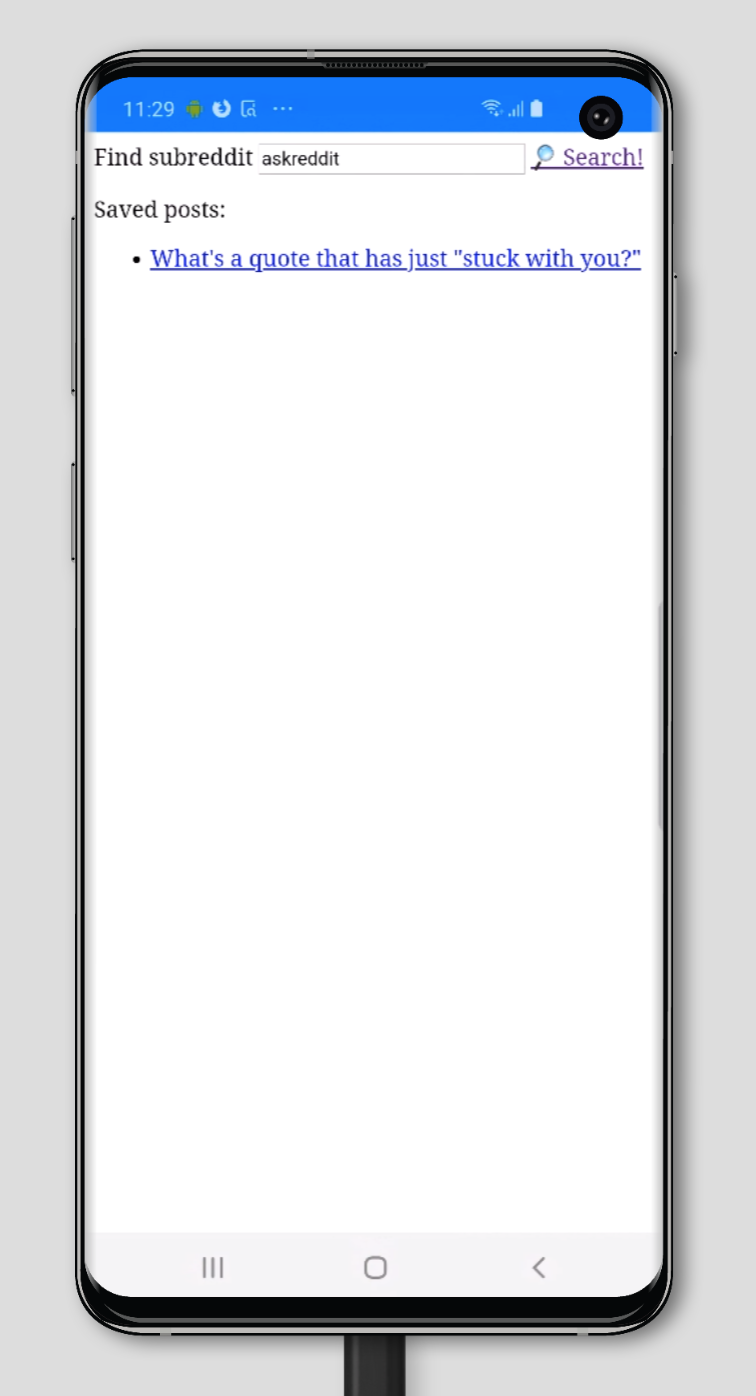
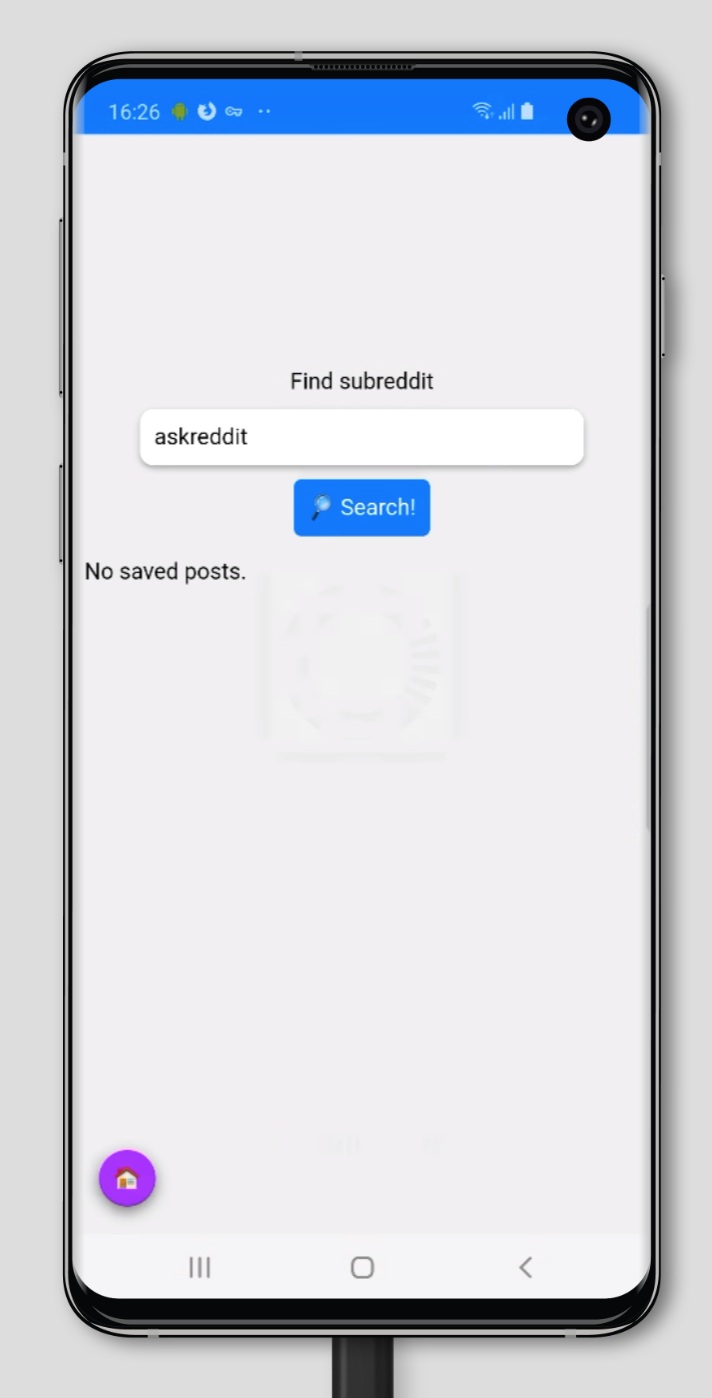
Style headers

diff --git a/src/reddit-pwa-thread.js b/src/reddit-pwa-thread.js
@@ -67,6 +67,9 @@ class RedditPwaThread extends LitElement {
         text-transform: lowercase;
         font-weight: 100;
         margin-bottom: 2em;
+        color: #6b6b6b;
+        text-decoration: underline;
+        text-decoration-color: rgb(0, 119, 255);
       }
 
       button {
@@ -78,6 +81,7 @@ class RedditPwaThread extends LitElement {
         border-radius: 5px;
         border: none;
         font-size: 1em;
+        color: white;
       }
 
       .save {

diff --git a/src/reddit-pwa-subreddit.js b/src/reddit-pwa-subreddit.js
@@ -42,6 +42,9 @@ class RedditPwaSubreddit extends LitElement {
         text-transform: lowercase;
         font-weight: 100;
         margin-bottom: 2em;
+        color: #6b6b6b;
+        text-decoration: underline;
+        text-decoration-color: rgb(0, 119, 255);
       }
 
       a {
